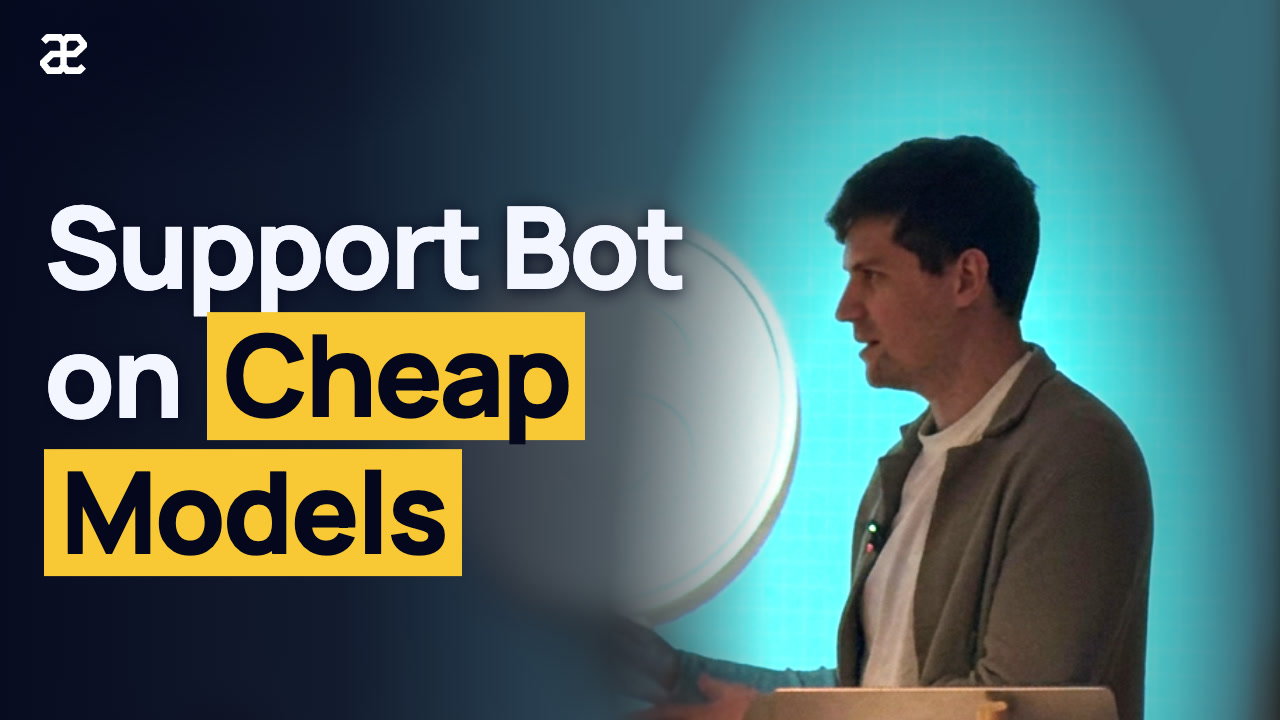
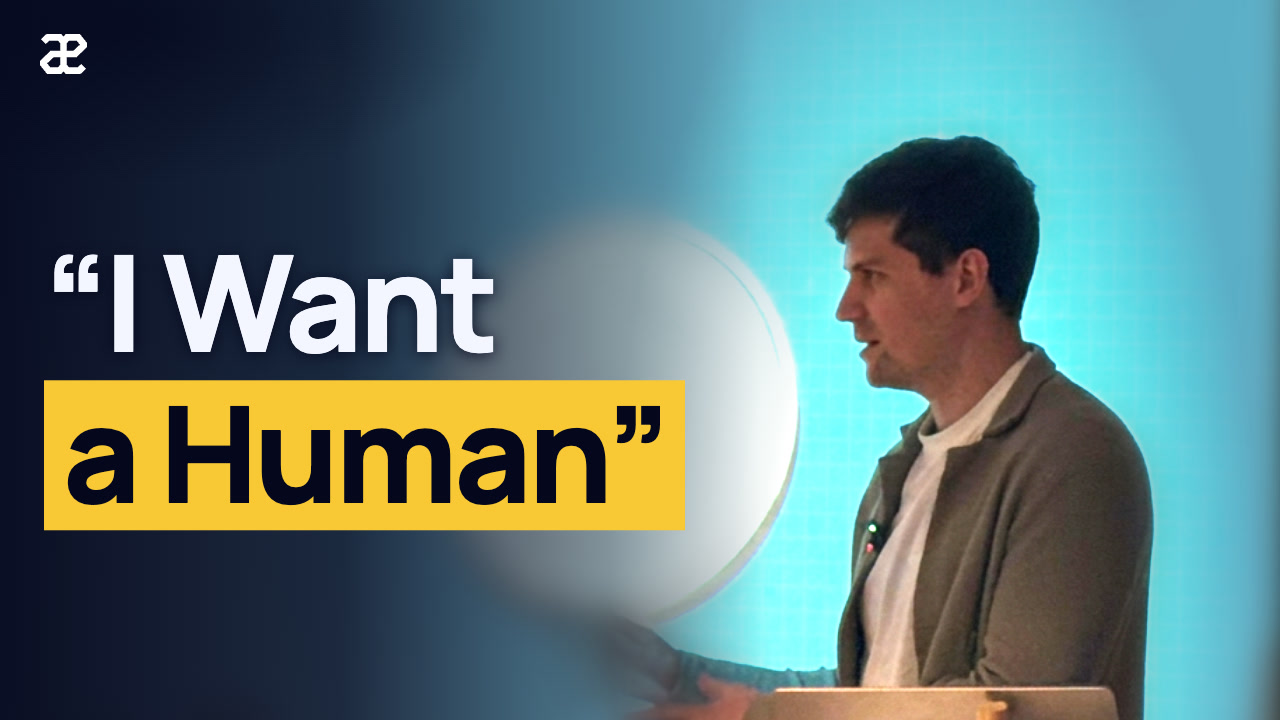
Hooks that open a question; even type size and exposure across the set
Hook rules: name the actor, no word twice, a narrow range of type sizes.
thumbnail.py prints each hook's type size, warns when it is small, evens out
exposure and takes --brightness for a photo that still looks dark.

diff --git a/scripts/thumbnail.html b/scripts/thumbnail.html
@@ -1,7 +1,7 @@
 <!doctype html>
 <!-- The talk thumbnail, drawn by scripts/thumbnail.py in headless Chrome.
-     It fills in CFG below: {photo, mark, hook, face, sharp?}. The title
-     becomes "ready" when the page has drawn, or says what went wrong. -->
+     It fills in CFG below: {photo, mark, hook, face, sharp?, brightness?}. The title
+     becomes "ready <type size>" when the page has drawn, or says what went wrong. -->
 <html><head><meta charset="utf-8"><title>loading</title>
 <link href="https://fonts.googleapis.com/css2?family=Manrope:wght@800&display=block" rel="stylesheet">
 <style>
@@ -14,7 +14,7 @@
   /* Centred a little below the middle: clear of the signature above and of
      YouTube's duration badge in the bottom-right corner. */
   .hook { position: absolute; top: 53%; transform: translateY(-50%); display: flex; flex-direction: column; gap: 0.08em;
-          font: 800 190px/1.02 Manrope, sans-serif; letter-spacing: -0.03em; white-space: nowrap; }
+          font: 800 134px/1.02 Manrope, sans-serif; letter-spacing: -0.03em; white-space: nowrap; }
   .right .hook { left: 44px; align-items: flex-start; }
   .left .hook { right: 44px; align-items: flex-end; }
   .hook .hl { background: var(--yellow); color: var(--navy); padding: 0.03em 0.14em 0.07em; text-shadow: none; }
@@ -46,9 +46,18 @@ function render(img, sharp) {
 
   // The room: blurred and darkened, so slide text does not compete with the hook.
   // A stretched copy goes underneath, so a photo that stops short has no edge.
-  ctx.filter = 'blur(40px) brightness(0.4) saturate(0.6)';
+  // Exposure: lift a dim face toward the same brightness on every thumbnail
+  // (never darken), times the talk's own `brightness` if it has one. The room
+  // gets the same lift, so the photo stays one photo.
+  const probe = new OffscreenCanvas(W, H).getContext('2d', { willReadFrequently: true });
+  draw(probe);
+  const hw = head * 0.3, d = probe.getImageData(fx - hw, fy - hw, hw * 2, hw * 2).data;
+  let sum = 0;
+  for (let i = 0; i < d.length; i += 4) sum += 0.2126 * d[i] + 0.7152 * d[i + 1] + 0.0722 * d[i + 2];
+  const gain = clamp(0.44 / (sum / (d.length / 4) / 255), 1, 1.4) * (CFG.brightness || 1);
+  ctx.filter = `blur(40px) brightness(${0.4 * gain}) saturate(0.6)`;
   ctx.drawImage(img, -40, -40, W + 80, H + 80);
-  ctx.filter = 'blur(18px) brightness(0.55) saturate(0.6)'; draw(ctx); ctx.filter = 'none';
+  ctx.filter = `blur(18px) brightness(${0.55 * gain}) saturate(0.6)`; draw(ctx); ctx.filter = 'none';
 
   // The speaker: sharp, lifted when the face is dim, feathered into the room.
   const off = new OffscreenCanvas(W, H), o = off.getContext('2d', { willReadFrequently: true });
@@ -57,12 +66,7 @@ function render(img, sharp) {
   // stays the photo's own.
   const [bx, by, bw, bh] = sharp ? CFG.sharp.box : [0, 0, 0, 0];
   const drawSpeaker = (c) => { draw(c); if (sharp) c.drawImage(sharp, ox + bx * s, oy + by * s, bw * s, bh * s); };
-  drawSpeaker(o);
-  const hw = head * 0.3, d = o.getImageData(fx - hw, fy - hw, hw * 2, hw * 2).data;
-  let sum = 0;
-  for (let i = 0; i < d.length; i += 4) sum += 0.2126 * d[i] + 0.7152 * d[i + 1] + 0.0722 * d[i + 2];
-  const gain = clamp(0.42 / (sum / (d.length / 4) / 255), 1, 1.35);
-  if (gain > 1.04) { o.clearRect(0, 0, W, H); o.filter = `brightness(${gain})`; drawSpeaker(o); o.filter = 'none'; }
+  o.filter = `brightness(${gain})`; drawSpeaker(o); o.filter = 'none';
   const rx = head * 1.45, ry = head * 3.3;
   o.globalCompositeOperation = 'destination-in';
   o.save(); o.translate(fx, fy + head * 1.5); o.scale(rx, ry);
@@ -115,6 +119,6 @@ const load = (src) => new Promise((ok, no) => {
   while ((h.scrollWidth > r.room || tall()) && fs > 56) h.style.fontSize = (fs -= 2) + 'px';
   if (h.scrollWidth > r.room) throw new Error('the hook is too wide to clear the speaker: shorten it');
   if (!document.fonts.check('800 20px Manrope')) throw new Error('the fonts did not load');
-  document.title = 'ready';
+  document.title = 'ready ' + Math.round(fs);
 })().catch((e) => { document.title = e.message; });
 </script></body></html>

diff --git a/scripts/thumbnail.py b/scripts/thumbnail.py
@@ -18,6 +18,8 @@ in the talk's talk.json, so a thumbnail can be rendered again:
             lines are set larger. The yellow block goes on the last line,
             or on what you mark: a line starting with *, or a *phrase* in one.
             Break lines at phrase boundaries and keep them of similar length.
+    brightness  optional. The exposure is evened out automatically; this
+            multiplies it (1.2, say) for a photo that still looks dark in the set.
 
 --enhance sends a crop of the speaker (never the name or the talk) to an image
 model and uses the result for the speaker only. The model invents detail:
@@ -50,6 +52,7 @@ TEMPLATE = pathlib.Path(__file__).resolve().parent / "thumbnail.html"
 # The logo is the brand's, in the website repository: read, never copied.
 MARK = common.ROOT.parent / "website/apps/branding/public/assets/logo/ae-mark-white.svg"
 LIMIT = 2 * 1024 * 1024  # thumbnails.set refuses more
+SMALL = 100  # hook type under this many px looks small beside the other thumbnails (the cap is 134)
 MIME = {".jpg": "image/jpeg", ".png": "image/png", ".svg": "image/svg+xml"}
 ENHANCE_MODEL = "google/gemini-3.1-flash-image"  # docs/adr/0003
 ENHANCE_PROMPT = (
@@ -163,6 +166,8 @@ def record(talk: pathlib.Path, args: argparse.Namespace, shots: pathlib.Path) ->
         if min(widths) * 2.5 < max(widths):
             print(f"  warning: {min(lines, key=len)!r} is a stray short line beside a long one; "
                   "rebalance the breaks", file=sys.stderr)
+    if args.brightness:
+        t["brightness"] = args.brightness
     if args.photo or args.face or args.no_enhance:
         t.pop("enhanced", None)  # it was made from the old photo or face
     if args.enhance:
@@ -190,6 +195,8 @@ def render(talk: pathlib.Path, shots: pathlib.Path) -> pathlib.Path | None:
     cfg = {"photo": data_uri(shots / t["photo"]), "mark": data_uri(MARK),
            "hook": t["hook"], "face": {"x": x, "y": y, "h": h}}
     sharp = t.get("enhanced")
+    if t.get("brightness"):
+        cfg["brightness"] = t["brightness"]
     if sharp and (shots / sharp["file"]).is_file():
         cfg["sharp"] = {"src": data_uri(shots / sharp["file"]), "box": sharp["box"]}
     out = talk / "thumbnail.jpg"
@@ -200,8 +207,9 @@ def render(talk: pathlib.Path, shots: pathlib.Path) -> pathlib.Path | None:
         # Chrome screenshots whatever is there when time runs out, so ask the
         # page first whether it finished: it sets its title to "ready".
         title = re.search(r"<title>(.*?)</title>", chrome("--dump-dom", page.as_uri()), re.S)
-        if not title or title.group(1) != "ready":
+        if not title or not title.group(1).startswith("ready "):
             die(f"{talk.name}: the page did not render ({title.group(1) if title else 'no title'})")
+        px = int(title.group(1).split()[1])
         chrome(f"--screenshot={png}", page.as_uri())
         if not png.is_file():
             die(f"{talk.name}: Chrome made no screenshot")
@@ -211,7 +219,9 @@ def render(talk: pathlib.Path, shots: pathlib.Path) -> pathlib.Path | None:
                 break
         else:
             die(f"{out}: still over 2 MB at the lowest quality")
-    print(f"  {out.relative_to(common.ROOT)}  ({out.stat().st_size / 1e3:.0f} kB)  {' / '.join(t['hook'])}")
+    print(f"  {out.relative_to(common.ROOT)}  {px}px  {' / '.join(t['hook'])}")
+    if px < SMALL:
+        print(f"    small type ({px}px): break the hook into shorter lines so the set stays even", file=sys.stderr)
     return out
 
 
@@ -235,11 +245,13 @@ def main() -> None:
     ap.add_argument("--photo", help="photo of the speaker")
     ap.add_argument("--face", help="x,y,h in the photo's pixels: face centre and head height")
     ap.add_argument("--hook", help='one to three lines, e.g. "81%% Written|by Agents"')
+    ap.add_argument("--brightness", type=float, metavar="X",
+                    help="multiply the automatic exposure, e.g. 1.2, when a photo still looks dark beside the others")
     ap.add_argument("--enhance", action="store_true", help="sharpen the speaker with an image model")
     ap.add_argument("--no-enhance", action="store_true", help="go back to the photo as it is")
     ap.add_argument("--upload", action="store_true", help="set the thumbnails on the YouTube videos")
     args = ap.parse_args()
-    edits = args.photo or args.face or args.hook or args.enhance or args.no_enhance
+    edits = args.photo or args.face or args.hook or args.enhance or args.no_enhance or args.brightness
     if edits and not args.talk:
         ap.error("--photo, --face, --hook and --enhance belong to one talk: name it")
 

diff --git a/.claude/skills/youtube-title/SKILL.md b/.claude/skills/youtube-title/SKILL.md
@@ -92,6 +92,17 @@ has to decode. The title then says exactly what the video is.
 - **The highlight.** The yellow block sits on the words that carry the point,
   as a whole phrase: "Phone Calls", "Lose Crypto", "Marketing". It never
   sits on a connective or half a phrase ("Focus, Not", "Per", "Calls").
+- **Says who.** Name the actor: "AI", "Agent", "A Bot", "My Agent", "We", "I".
+  A bare "It" needs the title to explain it and wastes the chance to say AI.
+  The exception is a bold two-beat statement ("It Ships. It Flirts.", "It
+  Works. Then It Dies."), where the repetition is the point.
+- **No word twice.** "It Pays Its Own Bills" has "it" and "its"; "AI Pays Its
+  Own Bills" does not. The same goes for any repeated word outside a
+  deliberate two-beat.
+- **Even type across the set.** Short lines are set larger, so a hook with a
+  long line prints small beside its neighbours. `thumbnail.py` prints each
+  hook's type size and warns under 100px: rebreak onto three short lines or
+  cut a word until the set sits in a narrow range.
 - **Not the title again.** The two may share a word. Together they should say
   more than either alone, and they need not match.
 - **True.** The talk must confirm the click. Sharpening a true framing is
@@ -112,13 +123,19 @@ has to decode. The title then says exactly what the video is.
 
 ### What the channel's owner has kept and thrown out
 
-Kept: "It Ships. It Flirts.", "Grey Market AI Tokens", "SaaS Is Becoming an
-Agent", "AI Bots Do My Marketing", "Stop Agent Slop", "Give Your Agent Eyes",
-"How Agents Lose Crypto".
+Kept: "It Ships. It Flirts.", "It Works. Then It Dies.", "It Posted as Me",
+"10 Hours. Still Wrong.", "\"I Want a Human\"", "Give AI a Wallet?", "Why Am I So
+Drained?", "AI Skips This Step", "design.md Didn't Work", "A Bot Runs My
+Bots", "AI Knows It's You", "AI Bots Do My Marketing", "Grey Market AI
+Tokens", "SaaS Is Becoming an Agent". "We Kept the Mistake" they rated about
+7 out of 10.
 
 Thrown out: "It Caught the Wrong Day" and "It Comes at 9 p.m." (a detail, not
 the talk), "Real Agents Run Without You" (too many words), "No Names, Still
 Identified" (clumsy), "Agents Need Focus, Not Context" (abstract advice),
-"A Bot Per Marketing Job" (stiff; they wrote "AI Bots Do My Marketing").
+"A Bot Per Marketing Job" (stiff; they wrote "AI Bots Do My Marketing"), "It
+Pays Its Own Bills" and "It Merged Its Own Code" ("its" twice; they asked for
+"AI" or "Agent" as the subject), "It Calls. I Eat." (could be better), "A Box
+Game Beats AI" (they preferred "AI Skips This Step").
 
 Sources and strength of evidence: `../title-critic/references/best-practices.md`.

diff --git a/.claude/skills/thumbnail-critic/SKILL.md b/.claude/skills/thumbnail-critic/SKILL.md
@@ -146,6 +146,11 @@ Judge it as a designer would, independent of the hook.
   as a whole phrase: "Phone Calls", "Lose Crypto", "Marketing". It never
   sits on a connective or half a phrase ("Focus, Not", "Per", "Calls").
 
+- **Even across the set.** On the contact sheet, the hooks should look close
+  in type size and the photos close in brightness. Name any thumbnail whose
+  text is clearly smaller or whose speaker is clearly darker than the rest;
+  the fixes are shorter lines and `thumbnail.py --brightness`.
+
 ### 6. Photo: is the image itself good enough?
 
 Judge the face after the crop for sharpness, exposure and colour cast, then

diff --git a/.claude/skills/title-critic/SKILL.md b/.claude/skills/title-critic/SKILL.md
@@ -67,6 +67,8 @@ Score each 1 to 5 with one sentence of evidence.
    - Is it plain and concrete, read in one second, with no jargon, acronym or
      abstraction to decode?
    - Is it two to four words?
+   - Does it name its actor (AI, Agent, A Bot, We, I) and avoid repeating a
+     word? A bare "It" passes only in a bold two-beat statement.
    A 5 is a hook you would click from the thumbnail alone and not feel
    cheated by the talk. Without a hook, say so.
 5. **Pair.** Read title and hook together. They should make one story and say
